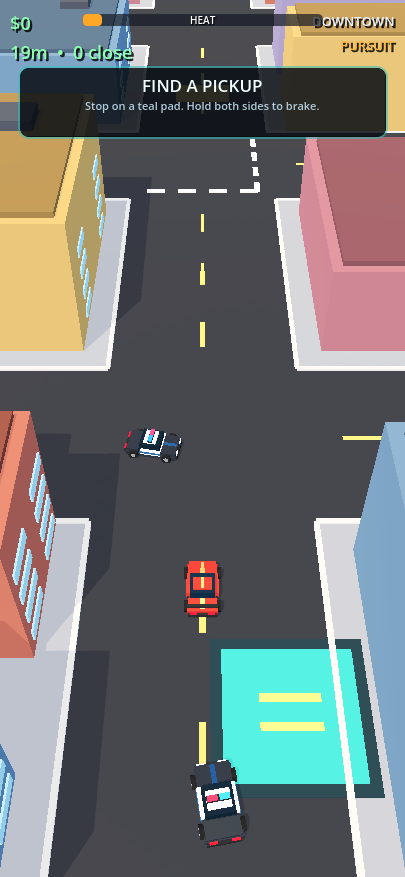
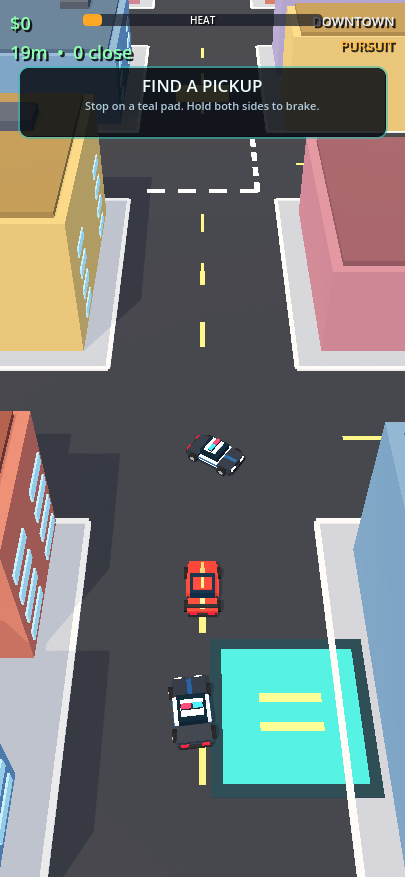
Update compiled preview with stronger police

Changed region(s): [[0.4148, 0.7697, 0.6222, 0.9852], [0.2963, 0.4618, 0.5926, 0.5542]]

diff --git a/index.html b/index.html
@@ -111,7 +111,7 @@ body {
 
 		<script src="index.js"></script>
 		<script>
-const GODOT_CONFIG = {"args":[],"canvasResizePolicy":2,"emscriptenPoolSize":8,"ensureCrossOriginIsolationHeaders":true,"executable":"index","experimentalVK":false,"fileSizes":{"index.pck":802808,"index.wasm":37902138},"focusCanvas":true,"gdextensionLibs":[],"godotPoolSize":4};
+const GODOT_CONFIG = {"args":[],"canvasResizePolicy":2,"emscriptenPoolSize":8,"ensureCrossOriginIsolationHeaders":true,"executable":"index","experimentalVK":false,"fileSizes":{"index.pck":804440,"index.wasm":37902138},"focusCanvas":true,"gdextensionLibs":[],"godotPoolSize":4};
 const GODOT_THREADS_ENABLED = false;
 const engine = new Engine(GODOT_CONFIG);
 
